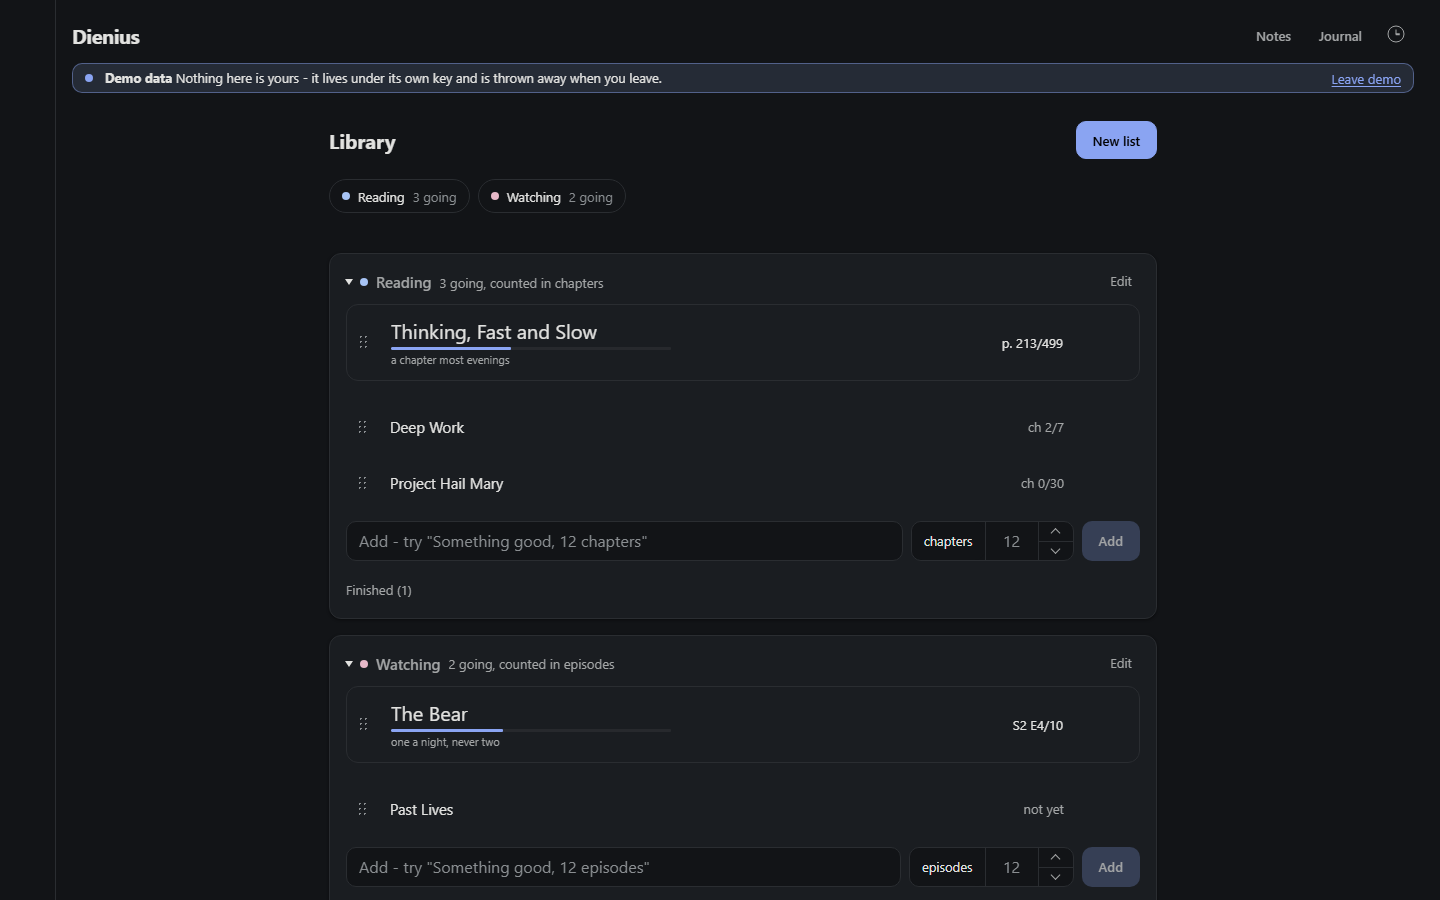
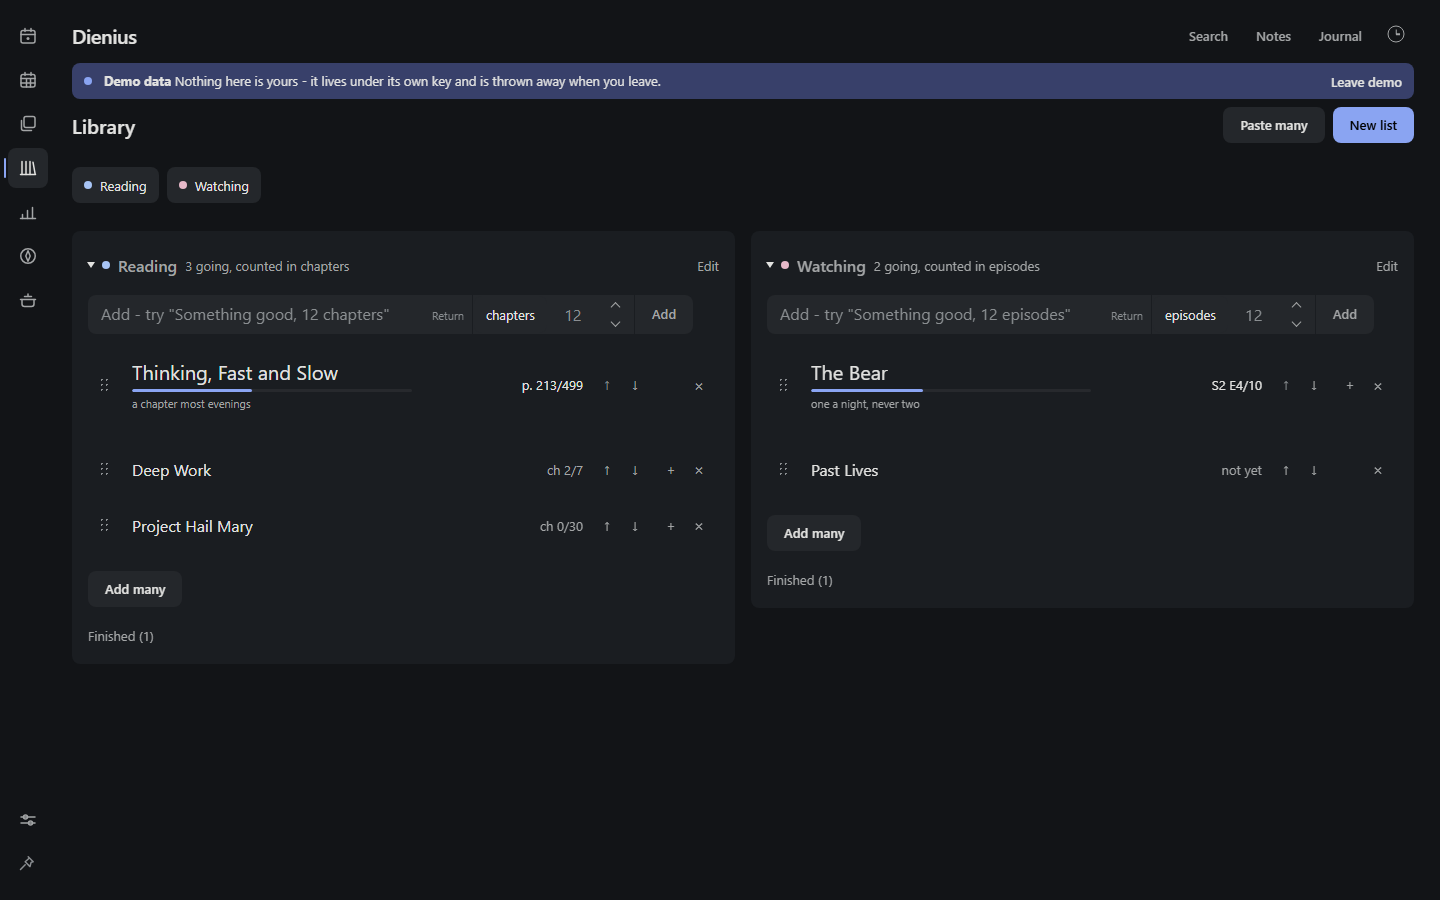
The README as the app is: why it exists, what it does now, how it is checked, and ten pictures
The owner asked for the README to be brought up to date and made worth
opening. What had gone stale: the feature list named sub-steps and four
directions under North, both gone since v2.13 and v2.28, and knew nothing
of kinds of day and the roster, Kitchen, the templates file, the archive or
a reading block naming its book; the store had eleven areas where it has
twelve; the badge counted tests at 2,500 against 3,800; the sweep measured
three window sizes where it measures four and a phone; and every picture
was of the app before one look, with its tracked capitals and its old rail.

Now: a line on why it exists - one person, a rota of days and nights, a
plan that has to be on the screen - and that it is built as a public piece
of work; the list as the app is, with the rota, Kitchen, the file and the
archive in it; a table of how it is checked, with the counts, the measuring
passes, the Lighthouse scores and the privacy guard; the links row pointing
at STATE in place of the audit of v2.9; FREEZE.md and TEMPLATE-JSON.md
among the docs; and ten pictures where there were eight, Kitchen and North
added to scripts/shots.mjs, all made again from the demo under the pinned
clock on the tree that draws the grid whole.

The license line under the README names the file alone; the name the
license stands in is in the license.

diff --git a/README.md b/README.md
@@ -1,8 +1,8 @@
 <h1 align="center">Dienius</h1>
 
-<p align="center"><img src="docs/screenshots/hero.png" width="920" alt="A Wednesday afternoon in Dienius: the timeline down the middle with the running block ringed, the task list on the right, the focus bar under the header"></p>
+<p align="center"><img src="docs/screenshots/hero.png" width="920" alt="A Wednesday afternoon in Dienius: the month and the templates in the rail, the timeline down the middle with the running block ringed, the task list on the right, the focus bar under the header"></p>
 
-<p align="center">A day planner for a brain that needs the plan to be visible, or it stops existing.</p>
+<p align="center"><strong>A day planner for a brain that needs the plan to be visible, or it stops existing.</strong></p>
 
 <p align="center">
   <a href="https://quicasha.github.io/dienius/?demo=1"><strong>Try the demo</strong></a>
@@ -13,39 +13,48 @@
   &nbsp;·&nbsp;
   <a href="docs/ARCHITECTURE.md">How it is built</a>
   &nbsp;·&nbsp;
-  <a href="docs/AUDIT-v2.9.md">Read the audit</a>
+  <a href="docs/STATE.md">Where it stands</a>
 </p>
 
 <p align="center">
   <a href="LICENSE"><img alt="License: MIT" src="https://img.shields.io/badge/license-MIT-blue.svg"></a>
   <img alt="React 19 + TypeScript" src="https://img.shields.io/badge/React_19-TypeScript-61dafb.svg">
-  <img alt="PWA" src="https://img.shields.io/badge/PWA-offline--first-5a0fc8.svg">
-  <img alt="2500+ tests" src="https://img.shields.io/badge/tests-2500%2B-brightgreen.svg">
+  <img alt="PWA, offline first" src="https://img.shields.io/badge/PWA-offline--first-5a0fc8.svg">
+  <img alt="3,800+ tests" src="https://img.shields.io/badge/tests-3800%2B-brightgreen.svg">
+  <img alt="Lighthouse accessibility 100 on a phone" src="https://img.shields.io/badge/Lighthouse-a11y_100-brightgreen.svg">
   <img alt="Accessibility: WCAG AA, keyboard throughout" src="https://img.shields.io/badge/a11y-AA_%2B_keyboard-4c1.svg">
-  <img alt="No dependencies at runtime" src="https://img.shields.io/badge/runtime_deps-react_only-lightgrey.svg">
+  <img alt="No dependencies at runtime but React" src="https://img.shields.io/badge/runtime_deps-react_only-lightgrey.svg">
 </p>
 
 <p align="center"><sub>The demo fills a sample fortnight under its own storage key and throws it away when you leave. It never touches a real plan.</sub></p>
 
-## Install
+## Why it exists
 
-- **iPhone / iPad** - open the link in Safari, then Share → Add to Home Screen
-- **Android** - open it in Chrome, then ⋮ → Install app
-- **Desktop** - Chrome and Edge show an install icon in the address bar
+One person uses this every day, on a computer at a desk and on a phone away
+from it, through a rota of day shifts, nights and the days after them. The
+plan has to be on the screen the moment the app opens, the morning after a
+night has to show the night's own hours, and nothing may turn a bad day into
+a verdict: no points, no streaks, no red. Every rule in the app comes from a
+week that was actually lived, and the harder calls are written down with
+what each one costs ([`docs/DECISIONS.md`](docs/DECISIONS.md)).
 
-After that it runs full screen, works with no connection, and keeps its data on that device.
+It is also a public portfolio piece, so it is built the way a professional
+codebase is: typed end to end, tested at every layer, measured in a real
+browser at both sizes before anything ships, and documented for whoever
+picks it up next.
 
 ## What it does
 
 - Stamps a **template** onto a day, so the morning does not start from a blank list
-- Draws the day as a **timeline**, with free time labelled and a line at now
+- Knows a **rota**: kinds of day - a day shift, a night, the night after a night, the day after nights - laid on dates with a roster that says what it will do before it does it; routines land on each kind at that kind's own time; a night's hours after midnight go on the morning after, and the evening close follows the kind
+- Draws the day as a **timeline**, with free time labelled, sleep greyed out and a line at now
 - Adds a task from one line: the time and the length are already filled in, you type the title
 - **Replans** a broken day in one press: something came up - on today or any day this week, with one line saying when you are still free - shift the rest, or away and back
 - Has a **low day** for when you do not feel like it: the key tasks stay at 40% of their length, the routine stays, the rest waits for tomorrow, and the day is scored on the key tasks alone
-- Times a **step** of a task from its own line - "Meditation 10 min" - with the one timer the app has, and ticks the step when the bell rings
-- Keeps a **week view**, a **library** of books and series worked through a session at a time - finish one and it says what the queue moved on to - and a **review** of how the weeks went, with one reading of where the plan and the week disagreed and, beside each repeating block, how many of the last 7 and 30 days it happened on
-- Takes a **note** in one line from any screen, holds **pictures** in it - paste a screenshot, drag one in, or use the camera - and turns any note into a task with its editor already open
-- Keeps a **journal** that asks nothing and counts nothing: a day, one box, no questions, saving as you type, with the month copied as markdown for anywhere else
+- Keeps a **Kitchen** of recipes by meal with their kcal and protein; a meal on the day names its recipe, or chooses one in two presses, and a whole text of recipes pastes in at once
+- Keeps a **week view**, a **library** of books and series worked through a sitting at a time - a reading block on the day names the book you are on - and a **review** of how the weeks went, with one reading of where the plan and the week disagreed
+- Takes a **note** in one line from any screen, holds **pictures** in it, and turns any note into a task; keeps a **journal** that asks nothing and counts nothing
+- Takes the **templates, routines and roster as JSON** from wherever you write them, with a preview before anything changes; pasted again, today and the dates ahead follow the file and the past stays as it was lived
 - Never scores a bad day against you: no points, no badges, no red, no streak on the day view
 
 <table align="center">
@@ -55,29 +64,36 @@ After that it runs full screen, works with no connection, and keeps its data on 
     <td align="center"><img src="docs/screenshots/calendar-week.png" width="280" alt="Calendar, week"><br><sub><b>Week</b></sub></td>
   </tr>
   <tr>
+    <td align="center"><img src="docs/screenshots/kitchen.png" width="280" alt="Kitchen"><br><sub><b>Kitchen</b></sub></td>
     <td align="center"><img src="docs/screenshots/library.png" width="280" alt="Library"><br><sub><b>Library</b></sub></td>
     <td align="center"><img src="docs/screenshots/review.png" width="280" alt="Review"><br><sub><b>Review</b></sub></td>
+  </tr>
+  <tr>
+    <td align="center"><img src="docs/screenshots/north.png" width="280" alt="North"><br><sub><b>North</b></sub></td>
+    <td align="center"><img src="docs/screenshots/today-dark.png" width="280" alt="Today, dark theme"><br><sub><b>Today, dark</b></sub></td>
     <td align="center"><img src="docs/screenshots/phone-today.png" width="140" alt="Today on a phone"><br><sub><b>On a phone</b></sub></td>
   </tr>
 </table>
 
-<p align="center"><sub>Every image is made by <code>npm run shots</code> from the sample fortnight, with the clock pinned to the same Wednesday afternoon.</sub></p>
+<p align="center"><sub>Every image is made by <code>npm run shots</code> from the sample fortnight, with the clock pinned to the same Wednesday afternoon. Running it twice gives the same files.</sub></p>
 
 <details>
 <summary><strong>The longer list</strong></summary>
 
 - A template per weekday, so a new day opens already set up. A stamp by hand always wins
+- A day template can be a kind of day: a letter for the roster, a sleep schedule of its own, and the kind it becomes on a date after a night. A ticked task is never lost to a change of kind
 - Repeating tasks: daily, weekdays or weekly, made into real tasks you can tick and move
 - Quick-add: a time control, the words, a length. "14:00 Call mom 45min" parses too, and the controls redraw to match
 - Three shelves for what is not on the day: notes (one key, nothing asked), Later - a list with no dates and no ages, in the order you would pull from it - and a float on a day with no time
 - Push twice, then decide: an unfinished task moves to tomorrow twice, after that you finish it, drop it, or mark it ongoing
+- Blocks that end by themselves: a shift, a commute, anything ongoing is done once its end has passed, unless you say it did not happen
 - What yesterday left, said once in a banner, moved forward in one tap, never on its own
-- An evening close: one sentence about the day, half an hour before the sleep that ends it - on a date with no kind of day, at a time you set - or when the last thing is ticked. It never mentions what was not done
-- North: your own text, read every morning - short lines in blocks, a line in capitals a heading whose lines open on a hover or a tap, and the headings in a row under the day's title - and under it up to four directions with a why and no progress bar, what you do to deserve each one, and the moments that pull you off it. Nothing measured, ever
+- An evening close: one sentence about the day, half an hour before the sleep that ends it - a night the morning after, on the morning's page - or when the last thing is ticked, and never while a shift runs. It never mentions what was not done
+- North: your own text, read every morning - an introduction on a plate, every heading on a card with its lines, a signature - with one line of it under the day's title and a window over the day after a night's sleep. Nothing measured, ever
 - Focus: the running task, its own planned time, a ring, a way out. Not a pomodoro
-- A timer and a stopwatch that survive a refresh and run on every tab
-- Task detail: exact minute, note, sub-steps, repeat, the three-a-day key mark
-- Six categories, one colour each, the same on the card and on the timeline block
+- A timer and a stopwatch that survive a refresh and run on every tab; Time this on a task offers to record what it actually took
+- Task detail: the exact minute, the length, the category, the key mark, the repeat, the list a reading block draws from or a meal's recipes, a link, the note
+- Six categories to start, then your own: renamed, recoloured, reordered, the same colour on the card and on the timeline block
 - Day types and core tasks, so a twelve-hour shift is not scored like an ordinary Tuesday
 - Sleep as a named schedule, greyed on the grid and counted out of free time
 - A month calendar that fits without scrolling, and a week of one shared timeline
@@ -85,18 +101,20 @@ After that it runs full screen, works with no connection, and keeps its data on 
 - A keyboard layer with a card behind `?`, and Ctrl-K for commands and search
 - A tour of nine steps, each ending when you actually do the thing
 - Three themes - Dark, Light, Midnight - with every text token gated against every ground it sits on at WCAG AA, by a test
-- Installs as a PWA, works offline, updates in the background with a quiet Reload notice
+- A screen that cannot draw says so in its own place, and the rest of the app goes on; a plan that cannot be read is kept aside, never written over
+- Installs as a PWA, works offline, and the next open after a deploy is the new version
 
 </details>
 
 ## Your data
 
-The plan lives in `localStorage` on the device, as one JSON object; a few device-local preferences sit beside it under their own keys, and the daily snapshots in IndexedDB. Four ways it does not get lost:
+The plan lives in `localStorage` on the device, as one JSON object; a few device-local preferences sit beside it under their own keys, and the daily snapshots in IndexedDB. Five ways it does not get lost:
 
-- **Export and import** - Settings has a plain JSON backup, both ways. A backup from any earlier version still imports
+- **Export and import** - Settings has a plain JSON backup, both ways. A backup from any earlier version still imports, held by a test for every format since v2.20
 - **Daily snapshots** - a full copy once a day in IndexedDB, the last seven kept, restorable from Settings
 - **A copy on GitHub** - Settings → Backup takes a private repo and a fine-grained token, and writes the whole plan there as JSON after the day closes and on the first open of a new day. The token stays on the device. Each copy is merged into the one before it, so no device's backup is older than another's; Restore from cloud first brings back what is missing and touches nothing newer
-- **Sync between your devices** - optional, through the same GitHub repo or a small server you host. A phone joining takes the computer's plan, or asks which to keep; nothing older is ever written over something newer - see [docs/SYNC.md](docs/SYNC.md). Below
+- **An archive of every lived day** - in the same repo, a file per day with its kind, its blocks, what was ticked and when, the meals with their numbers and the notes, and the whole plan once a week, never written over - [docs/ARCHIVE-FORMAT.md](docs/ARCHIVE-FORMAT.md)
+- **Sync between your devices** - optional, through the same GitHub repo or a small server you host. A phone joining takes the computer's plan, or asks which to keep; nothing older is ever written over something newer - [docs/SYNC.md](docs/SYNC.md)
 
 Deleting a task or a note, removing a library item, stamping a template, moving a block to another day and a replan can each be undone for five seconds.
 
@@ -105,7 +123,7 @@ Deleting a task or a note, removing a library item, stamping a template, moving 
 
 There is no hosted service and no account.
 
-**Through your GitHub repo** there is nothing to run. With the backup's repo and token on both devices: Settings → Sync → Your GitHub repo → Turn on, on the computer first. A phone with nothing of its own takes the computer's plan; one with a plan of its own asks which to keep before anything is written. Each change goes up a few seconds after it is made, and every open, return and minute on screen reads what the other device left. Settings → Sync shows when this device last pulled and pushed, what waits to go, and says so when it is behind. How it works, and what to do when a device shows an older copy: [docs/SYNC.md](docs/SYNC.md).
+**Through your GitHub repo** there is nothing to run. With the backup's repo and token on both devices: Settings → Sync → Your GitHub repo → Turn on, on the computer first. A phone with nothing of its own takes the computer's plan; one with a plan of its own asks which to keep before anything is written. Each change goes up a few seconds after it is made, and every open, return and minute on screen reads what the other device left. Settings → Sync shows when this device last pulled and pushed, what waits to go, and says so when it is behind. Two tabs of the app on one device take in what the other saved. How it works, and what to do when a device shows an older copy: [docs/SYNC.md](docs/SYNC.md).
 
 **Or a server of your own**, of under three hundred lines, on a machine you own.
 
@@ -139,14 +157,25 @@ Merging is per entity, so a morning on the phone and an evening on the PC both s
 
 React 19 and TypeScript, built with Vite. No UI framework, no router, no state library. The whole state is one object behind `useSyncExternalStore`, saved straight to `localStorage`. Everything that is not a component - parsing, sorting, scoring, stamping, capacity, the timeline's geometry, iCalendar - is a plain function in `src/lib` or beside its widget, tested directly.
 
-- `src/lib` holds the data model (`types.ts`), the store (`store.ts`, eleven area modules under `store/`), the storage boundary and its validator, sync, the calendar reader, the tour as data
+- `src/lib` holds the data model (`types.ts`), the store (`store.ts`, twelve area modules under `store/`), the storage boundary and its validator, sync, the backup and the archive, the calendar reader, the tour as data
 - `src/widgets/day-plan` is the day view: quick-add, the timeline grid, capacity, replan, the task detail sheet
 - `src/views` is every other tab, the week view, the tour engine, the shared controls
-- `server/sync-server.mjs` is the optional sync server; `scripts/` builds the service worker's cache list and the README's screenshots, and holds the measuring sweep and the sample day it runs on
+- `server/sync-server.mjs` is the optional sync server; `scripts/` builds the service worker's cache list and the README's screenshots, and holds the measuring passes and the sample day they run on
 
-The suite is Vitest and Testing Library for the pure modules and the views, and Playwright against the production build for the flows that cross tabs. Alongside them, `npm run sweep` opens every screen at three window sizes in both themes on a realistic full day and measures what a person would actually hit - text that does not fit, a control with something on top of it, two pieces of text over each other, contrast against whatever is really painted underneath. It plants its own defects on request to prove it can still see them. Every push and pull request runs the tests and the build; a push to `main` also publishes to GitHub Pages when both pass. The browser tests run in a job of their own.
+The map of the whole thing is [`docs/ARCHITECTURE.md`](docs/ARCHITECTURE.md), and the rules work is done by are [`docs/CONVENTIONS.md`](docs/CONVENTIONS.md): one spacing scale, five text sizes, every colour held to its contrast by a test, nothing that moves on hover, every invented word explained where it is used.
 
-The map of the whole thing is [`docs/ARCHITECTURE.md`](docs/ARCHITECTURE.md).
+## How it is checked
+
+Nothing ships on a feeling. Every change goes through the same gates, one after another, and a push to `main` deploys only when the tests and the build pass.
+
+| What | How |
+|---|---|
+| **Unit tests** | 3,681 in 248 files, Vitest and Testing Library: the pure modules, the store, every view. A rule that must hold for every date and every clock change is also a property test |
+| **Browser walks** | 181 in Playwright against the production build, on a desktop and a 375px phone: the tour, the phone call answered in three presses, two tabs of the app, a phone with no network, a deploy taking over, the owner's own week lived day by day |
+| **Measuring passes** | Every screen at four desktop sizes and on the phone, in both themes, on a realistic full day: text that does not fit, a control with something over it, text painted over text, anything past an edge, every string's contrast against what is really painted under it, every control 44px on a finger; every screen on a keyboard alone; centring, rhythm and edges; three text sizes. Each plants its own defects on request to prove it can still see them |
+| **Lighthouse** | Phone 95 performance, 100 accessibility, 100 best practices; desktop 100, 93, 100 - with what holds each score where it is written down in [`docs/SPEED.md`](docs/SPEED.md) |
+| **Data** | A backup written by every version since v2.20 opens, loses nothing, and is a fixed point after one import |
+| **Privacy** | A guard that fails the build on anything personal in a tracked file |
 
 ## Run locally
 
@@ -167,13 +196,14 @@ Requires Node 22 or newer.
 
 - [`docs/DAILY.md`](docs/DAILY.md) - for using it rather than building it: setting it up once, and what to do if something looks wrong
 - [`docs/STATE.md`](docs/STATE.md) - where the project is: the freeze, every feature in a line, what is owed, what will bite you
+- [`docs/FREEZE.md`](docs/FREEZE.md) - the freeze on one page: what is allowed, how a bug is reported, where things wait
 - [`docs/HISTORY.md`](docs/HISTORY.md) - how it got here, version by version
 - [`docs/BACKLOG.md`](docs/BACKLOG.md) - what was asked for: parked, done, and no longer relevant
 - [`docs/ARCHITECTURE.md`](docs/ARCHITECTURE.md) - where the code is: the data model, the state flow, which file for which job
 - [`docs/CONVENTIONS.md`](docs/CONVENTIONS.md) - how work is done here, and why each rule exists
 - [`docs/DECISIONS.md`](docs/DECISIONS.md) - the harder calls, with what each one costs
 - [`docs/RESEARCH-ADHD.md`](docs/RESEARCH-ADHD.md) - the evidence behind the push rule and the score, and what not to build
-- [`docs/AUDIT-v2.9.md`](docs/AUDIT-v2.9.md) - the whole app in one read, for somebody who has not seen it: every screen and where you press, screenshots in both themes, what is known to be imperfect, and what would be decided differently
+- [`docs/TEMPLATE-JSON.md`](docs/TEMPLATE-JSON.md) - the templates, routines and roster as a file
 
 ## License
 
